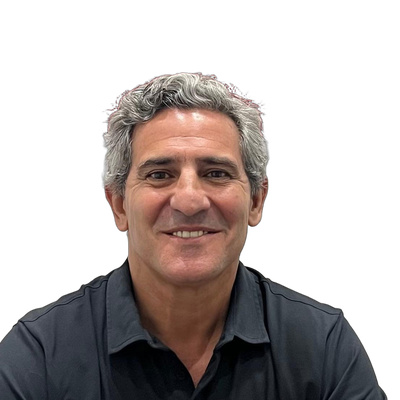
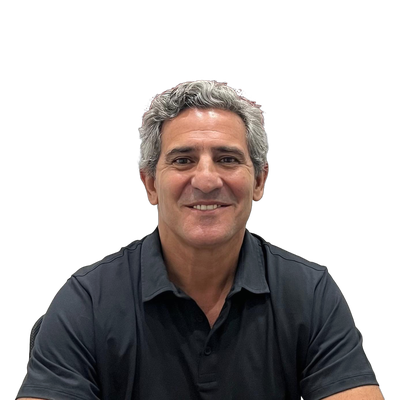
fotos de todo el equipo sin fondo, cards rojas de marca con circulos blancos

diff --git a/quienes-somos/index.html b/quienes-somos/index.html
@@ -119,12 +119,12 @@ button{font-family:inherit;background:none;border:0;cursor:pointer;color:inherit
 .tgrid{display:grid;grid-template-columns:repeat(3,1fr);gap:20px;margin-top:48px}
 @media(min-width:640px){.tgrid{grid-template-columns:repeat(4,1fr)}}
 @media(min-width:1024px){.tgrid{grid-template-columns:repeat(5,1fr)}}
-.tcard{background:rgba(14,35,45,.04);border:1px solid rgba(14,35,45,.08);border-radius:16px;padding:20px 16px;text-align:center;transition:transform .3s,border-color .3s}
-.tcard:hover{transform:translateY(-4px);border-color:rgba(213,70,76,.3)}
+.tcard{background:var(--red);border:1px solid var(--red);border-radius:16px;padding:20px 16px;text-align:center;transition:transform .3s,border-color .3s}
+.tcard:hover{transform:translateY(-4px);border-color:rgba(255,255,255,.4)}
 .tcard .av{width:84px;height:84px;border-radius:50%;background:var(--bur);color:var(--white);display:flex;align-items:center;justify-content:center;font-size:28px;font-weight:700;margin:0 auto 12px}
-.tcard img.av{object-fit:cover;display:block}
-.tcard b{display:block;font-size:14px;font-weight:700;color:var(--black)}
-.tcard .role{font-size:11px;color:rgba(14,35,45,.5);margin-top:3px;font-weight:500}
+.tcard img.av{object-fit:cover;display:block;background:#fff}
+.tcard b{display:block;font-size:14px;font-weight:700;color:var(--white)}
+.tcard .role{font-size:11px;color:rgba(255,255,255,.78);margin-top:3px;font-weight:500}
 /* LOCAL */
 .local-grid{display:grid;grid-template-columns:1fr;gap:32px;margin-top:48px}
 @media(min-width:768px){.local-grid{grid-template-columns:1fr 1fr}}
@@ -342,15 +342,15 @@ footer{background:var(--bur);color:var(--white);border-top:1px solid rgba(255,25
       <p style="margin-top:16px;font-size:16px;color:rgba(14,35,45,.65)">Una empresa familiar, un solo equipo. Personas reales con las que vas a hablar cuando nos contactés.</p>
     </div>
     <div class="tgrid rv">
-      <div class="tcard"><div class="av">C</div><b>Carolina</b><p class="role">Agente de Viajes</p></div>
-      <div class="tcard"><div class="av">L</div><b>Luján</b><p class="role">Agente de Viajes</p></div>
-      <div class="tcard"><div class="av">L</div><b>Luciana</b><p class="role">Agente de Viajes</p></div>
-      <div class="tcard"><div class="av">C</div><b>Claudia</b><p class="role">Agente de Viajes</p></div>
-      <div class="tcard"><div class="av">X</div><b>Xiomara</b><p class="role">Agente de Viajes</p></div>
-      <div class="tcard"><div class="av">P</div><b>Pilar</b><p class="role">Agente de Viajes</p></div>
-      <div class="tcard"><div class="av">S</div><b>Silvia</b><p class="role">Departamento de Ventas</p></div>
+      <div class="tcard"><img class="av" src="../equipo/carolina.png" alt="Carolina, Agente de Viajes de Legend Travel" width="84" height="84" loading="lazy"><b>Carolina</b><p class="role">Agente de Viajes</p></div>
+      <div class="tcard"><img class="av" src="../equipo/lujan.png" alt="Luján, Agente de Viajes de Legend Travel" width="84" height="84" loading="lazy"><b>Luján</b><p class="role">Agente de Viajes</p></div>
+      <div class="tcard"><img class="av" src="../equipo/luciana.png" alt="Luciana, Agente de Viajes de Legend Travel" width="84" height="84" loading="lazy"><b>Luciana</b><p class="role">Agente de Viajes</p></div>
+      <div class="tcard"><img class="av" src="../equipo/claudia.png" alt="Claudia, Agente de Viajes de Legend Travel" width="84" height="84" loading="lazy"><b>Claudia</b><p class="role">Agente de Viajes</p></div>
+      <div class="tcard"><img class="av" src="../equipo/xiomara.png" alt="Xiomara, Agente de Viajes de Legend Travel" width="84" height="84" loading="lazy"><b>Xiomara</b><p class="role">Agente de Viajes</p></div>
+      <div class="tcard"><img class="av" src="../equipo/pilar.png" alt="Pilar, Agente de Viajes de Legend Travel" width="84" height="84" loading="lazy"><b>Pilar</b><p class="role">Agente de Viajes</p></div>
+      <div class="tcard"><img class="av" src="../equipo/silvia.png" alt="Silvia, Departamento de Ventas de Legend Travel" width="84" height="84" loading="lazy"><b>Silvia</b><p class="role">Departamento de Ventas</p></div>
       <div class="tcard"><img class="av" src="../equipo/fernando.png" alt="Fernando Pérez Grassi, Socio Gerente de Legend Travel" width="84" height="84" loading="lazy"><b>Fernando</b><p class="role">Socio Gerente</p></div>
-      <div class="tcard"><div class="av">L</div><b>Lucas</b><p class="role">Administrativo</p></div>
+      <div class="tcard"><img class="av" src="../equipo/lucas.png" alt="Lucas, Administrativo de Legend Travel" width="84" height="84" loading="lazy"><b>Lucas</b><p class="role">Administrativo</p></div>
     </div>
   </div>
 </section>

diff --git a/index.html b/index.html
@@ -280,13 +280,13 @@ section{background:var(--white)}
 .tgrid{display:grid;grid-template-columns:1fr 1fr;gap:16px}
 @media(min-width:640px){.tgrid{grid-template-columns:repeat(3,1fr)}}
 @media(min-width:1024px){.tgrid{grid-template-columns:repeat(3,1fr);gap:24px}}
-.tcard{display:block;background:#fff;border:1px solid rgba(14,35,45,.1);border-radius:16px;padding:28px 24px;text-align:center;transition:transform .3s,box-shadow .3s,border-color .3s}
+.tcard{display:block;background:var(--red);border:1px solid var(--red);border-radius:16px;padding:28px 24px;text-align:center;transition:transform .3s,box-shadow .3s,border-color .3s}
 .tcard:hover{transform:translateY(-6px);box-shadow:0 18px 44px rgba(14,35,45,.12);border-color:transparent}
 .tcard .av{width:104px;height:104px;border-radius:50%;margin:0 auto 16px;display:flex;align-items:center;justify-content:center;font-size:34px;font-weight:700;color:var(--white);background:linear-gradient(140deg,var(--red2),var(--bur));transition:transform .3s}
-.tcard img.av{object-fit:cover;display:block}
+.tcard img.av{object-fit:cover;display:block;background:#fff}
 .tcard:hover .av{transform:scale(1.05) rotate(-3deg)}
-.tcard b{display:block;font-weight:700;color:var(--black)}
-.tcard .role{font-size:13px;color:rgba(14,35,45,.55);margin-top:6px}
+.tcard b{display:block;font-weight:700;color:var(--white)}
+.tcard .role{font-size:13px;color:rgba(255,255,255,.78);margin-top:6px}
 /* HISTORIA */
 #historia{background:var(--bur)}
 #historia .kicker{color:var(--red3)}
@@ -758,15 +758,15 @@ height="0" width="0" style="display:none;visibility:hidden"></iframe></noscript>
       <p class="lead">Una empresa familiar, un solo equipo. Personas reales con las que vas a poder hablar cuando lo necesités.</p>
     </div>
     <div class="tgrid">
-      <div class="tcard rv"><div class="av">C</div><b>Carolina</b><p class="role">Agente de Viajes</p></div>
-      <div class="tcard rv"><div class="av">L</div><b>Luján</b><p class="role">Agente de Viajes</p></div>
-      <div class="tcard rv"><div class="av">L</div><b>Luciana</b><p class="role">Agente de Viajes</p></div>
-      <div class="tcard rv"><div class="av">C</div><b>Claudia</b><p class="role">Agente de Viajes</p></div>
-      <div class="tcard rv"><div class="av">X</div><b>Xiomara</b><p class="role">Agente de Viajes</p></div>
-      <div class="tcard rv"><div class="av">P</div><b>Pilar</b><p class="role">Agente de Viajes</p></div>
-      <div class="tcard rv"><div class="av">S</div><b>Silvia</b><p class="role">Departamento de Ventas</p></div>
+      <div class="tcard rv"><img class="av" src="equipo/carolina.png" alt="Carolina, Agente de Viajes de Legend Travel" width="104" height="104" loading="lazy"><b>Carolina</b><p class="role">Agente de Viajes</p></div>
+      <div class="tcard rv"><img class="av" src="equipo/lujan.png" alt="Luján, Agente de Viajes de Legend Travel" width="104" height="104" loading="lazy"><b>Luján</b><p class="role">Agente de Viajes</p></div>
+      <div class="tcard rv"><img class="av" src="equipo/luciana.png" alt="Luciana, Agente de Viajes de Legend Travel" width="104" height="104" loading="lazy"><b>Luciana</b><p class="role">Agente de Viajes</p></div>
+      <div class="tcard rv"><img class="av" src="equipo/claudia.png" alt="Claudia, Agente de Viajes de Legend Travel" width="104" height="104" loading="lazy"><b>Claudia</b><p class="role">Agente de Viajes</p></div>
+      <div class="tcard rv"><img class="av" src="equipo/xiomara.png" alt="Xiomara, Agente de Viajes de Legend Travel" width="104" height="104" loading="lazy"><b>Xiomara</b><p class="role">Agente de Viajes</p></div>
+      <div class="tcard rv"><img class="av" src="equipo/pilar.png" alt="Pilar, Agente de Viajes de Legend Travel" width="104" height="104" loading="lazy"><b>Pilar</b><p class="role">Agente de Viajes</p></div>
+      <div class="tcard rv"><img class="av" src="equipo/silvia.png" alt="Silvia, Departamento de Ventas de Legend Travel" width="104" height="104" loading="lazy"><b>Silvia</b><p class="role">Departamento de Ventas</p></div>
       <div class="tcard rv"><img class="av" src="equipo/fernando.png" alt="Fernando Pérez Grassi, Socio Gerente de Legend Travel" width="104" height="104" loading="lazy"><b>Fernando</b><p class="role">Socio Gerente</p></div>
-      <div class="tcard rv"><div class="av">L</div><b>Lucas</b><p class="role">Administrativo</p></div>
+      <div class="tcard rv"><img class="av" src="equipo/lucas.png" alt="Lucas, Administrativo de Legend Travel" width="104" height="104" loading="lazy"><b>Lucas</b><p class="role">Administrativo</p></div>
     </div>
   </div>
 </section>
